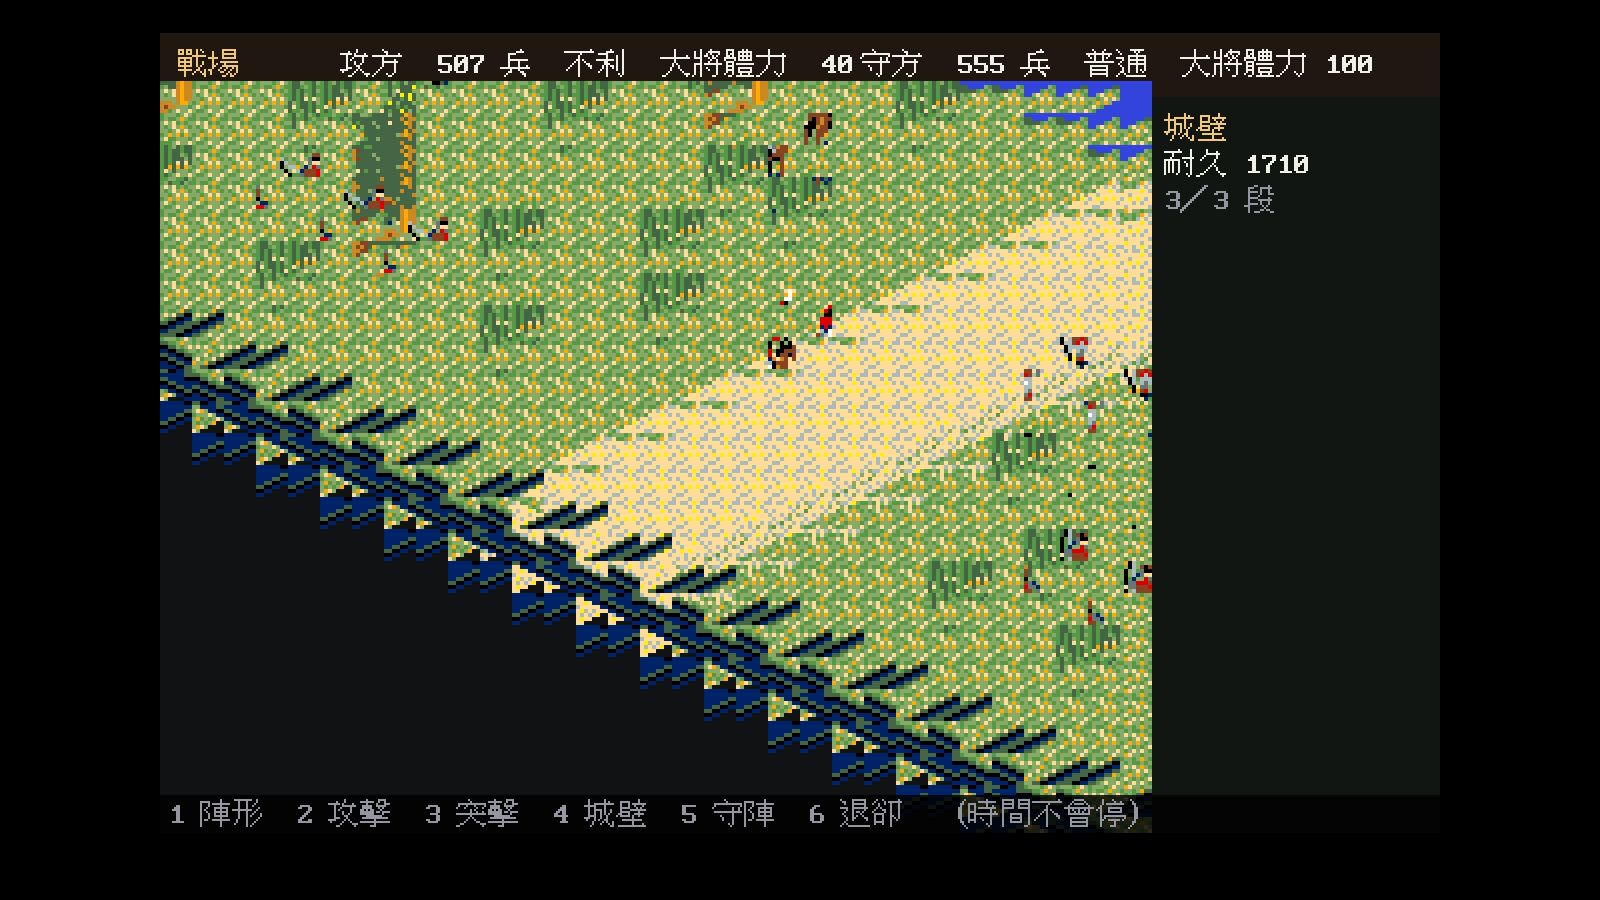
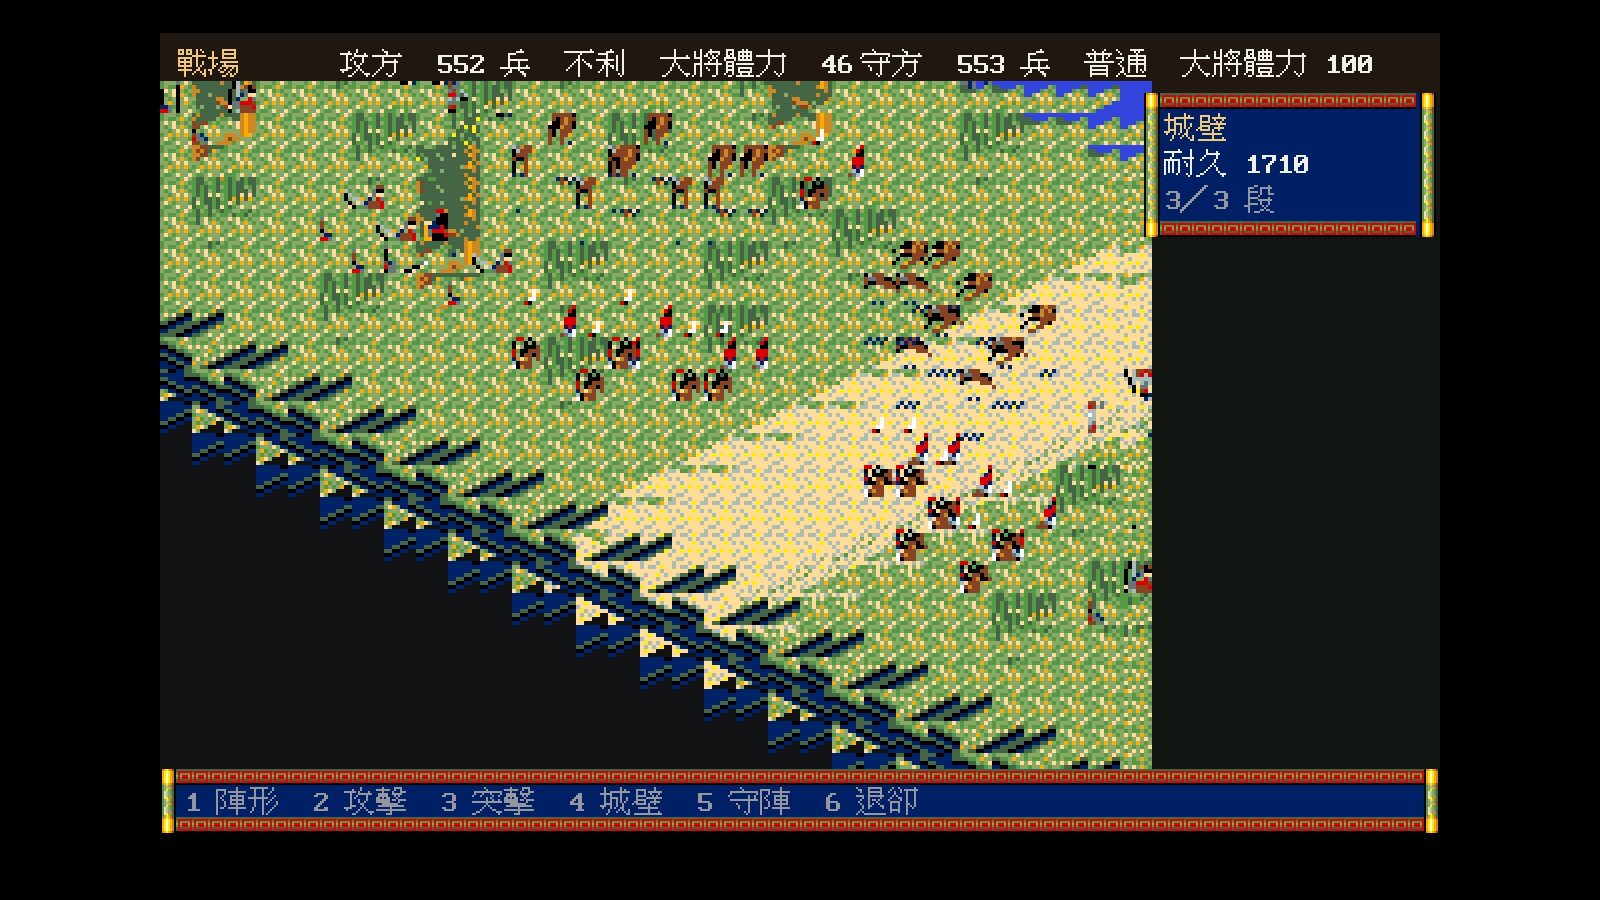
補完三項 UI 尾巴：命令視窗、戰鬥畫面外框、龍紋定案為負面結果
命令視窗改成原版的八組指令（進言／人事／財政／編成／軍團／據點／武將／勢力，
說明書 §3.2–3.3）。**沒實作的照樣列出來並標灰**——選單本身就是一份
「還缺什麼」的清單，把沒做的藏起來會讓缺口從畫面上消失。

戰鬥畫面的城壁欄與底部指令列換成原版外框，順手修掉 battle.go 開頭
那段過時註解（寫著「BATTLE.MDL 的像素格式還沒解出來」，那是上一輪解掉的）。

龍紋底圖：量完確定**不是可重複貼的圖塊**，這是負面結果不是待辦。
任何尺度都沒有週期（背景值 36.4%，水平 8/16/32/64 是 62/55/51/44%，
大位移 72–128 掉到 17–32%；真有週期該出現尖峰而不是單調下滑）。
內部 321 種相異的 8×8 圖樣裡只有 5 種在 ICONGRF 找得到，而那 5 種是外框自己。
所以它是每個視窗一張的裝飾底圖，要補得先反組譯視窗繪製常式，
不是再試一次拼貼尺寸。寫進 docs/formats/03 §5.5 與 chrome 套件的註解，
免得下一輪重試。

diff --git a/cmd/wlgame/battle.go b/cmd/wlgame/battle.go
@@ -2,10 +2,10 @@ package main
 
 // 戰場畫面。
 //
-// ⚠ **這裡畫的不是原版的美術。** `BATTLE.MDL` 的像素格式還沒解出來
-// （docs/re/11 §6），所以地形用堆疊高度上色、兵用色點。
-// **幾何是對的**（64 × 62 的格、立體的層、陣形位置、鎖敵），
-// 美術是暫代的——解出像素格式之後換掉這一層就好。
+// `BATTLE.MDL` 的子圖塊與 `BATTLE.SCH` 的人物圖形都已經解出來了
+// （docs/formats/07 §8–§10），等角繪圖走 battleview.go；
+// **沒有原版素材時退回高度圖 ＋ 色點**，幾何一樣是對的
+// （64 × 62 的格、立體的層、陣形位置、鎖敵）。
 
 import (
 	"fmt"
@@ -17,6 +17,7 @@ import (
 	"github.com/hajimehoshi/ebiten/v2/vector"
 
 	"github.com/wicanr2/wolong_cht/internal/assets/battle"
+	"github.com/wicanr2/wolong_cht/internal/ui/chrome"
 	"github.com/wicanr2/wolong_cht/internal/rules/army"
 	"github.com/wicanr2/wolong_cht/internal/rules/battlefield"
 	"github.com/wicanr2/wolong_cht/internal/rules/combat"
@@ -207,6 +208,8 @@ func (g *game) drawBattleBanner(screen *ebiten.Image, b *tactical.Battle, p *sta
 	if b.Field.IsSiege() && len(b.Structures) > 0 {
 		const px = isoNativeW*isoScale + 6
 		py := bannerH + 8
+		g.chrome.Window(screen, px-chrome.Tile-2, py-chrome.Tile-2,
+			screenW-(px-chrome.Tile-2)-2, 72, chrome.Menu)
 		g.td.Draw(screen, "城壁", px, py, amber)
 		min, intact := b.MinWallDurability()
 		txt := fmt.Sprintf("耐久 %d", min)
@@ -230,15 +233,16 @@ func (g *game) drawBattleBanner(screen *ebiten.Image, b *tactical.Battle, p *sta
 func (g *game) drawBattleKeys(screen *ebiten.Image, b *tactical.Battle) {
 	amber := color.RGBA{240, 200, 120, 255}
 	dim := color.RGBA{150, 150, 160, 255}
-	// 底部：指令列。
-	vector.DrawFilledRect(screen, 0, screenH-19, screenW, 19, color.RGBA{0, 0, 0, 210}, false)
+	// 底部：指令列。與戰略畫面一樣用原版外框，不要黑底長條。
+	const h = 32
+	g.chrome.Window(screen, 0, screenH-h, screenW, h, chrome.Menu)
 	if b.Done {
 		g.td.Draw(screen, fmt.Sprintf("%s勝　第 %d 幀　按 Enter 回戰略畫面",
-			sideLabel(b.Winner), b.Frame), 4, screenH-17, amber)
+			sideLabel(b.Winner), b.Frame), chrome.Tile+4, screenH-h+9, amber)
 	} else {
 		g.td.Draw(screen,
-			"1 陣形　2 攻擊　3 突擊　4 城壁　5 守陣　6 退卻　（時間不會停）",
-			4, screenH-17, dim)
+			"1 陣形　2 攻擊　3 突擊　4 城壁　5 守陣　6 退卻",
+			chrome.Tile+4, screenH-h+9, dim)
 	}
 }
 

diff --git a/cmd/wlgame/window.go b/cmd/wlgame/window.go
@@ -28,6 +28,23 @@ var windowRect = [numWindows]struct{ X, Y, W, H int }{
 	winSystem:  {archorRight(216), 216, 216, 152},
 }
 
+// commandMenu 是原版命令視窗的八組指令（說明書 §3.2、§3.3，
+// 整理在 docs/mechanics/10-strategy.md）。key 空字串 ＝ **還沒實作**。
+//
+// 保留未實作的項目是刻意的：選單本身就是一份「還缺什麼」的清單，
+// 把沒做的藏起來會讓缺口從畫面上消失。
+var commandMenu = []struct{ key, name string }{
+	{"P", "進　言"},
+	{"", "人　事"},
+	{"", "財　政"},
+	{"A", "編　成"},
+	{"M", "行　軍"},
+	{"C", "軍　團"},
+	{"", "據　點"},
+	{"G", "武　將"},
+	{"", "勢　力"},
+}
+
 // archorRight 讓視窗靠右邊，留 8 px 邊。
 func archorRight(w int) int { return screenW - w - 8 }
 
@@ -61,13 +78,18 @@ func (g *game) drawWindow(dst *ebiten.Image, k windowKind) {
 
 	switch k {
 	case winCommand:
+		// 原版的命令視窗是**八組**：進言 ＋ 說明書 §3 的其餘七個
+		// （docs/mechanics/10-strategy.md）。沒實作的照樣列出來並標灰，
+		// **不要因為還沒做就從選單上消失**——那會讓「還缺什麼」看不見。
 		w.line("命　令")
 		w.line("")
-		for _, s := range []string{
-			"P 進　言", "A 編　成", "M 行　軍",
-			"C 軍　團", "G 武　將",
-		} {
-			w.line(s)
+		for _, c := range commandMenu {
+			col := ink
+			key := c.key
+			if key == "" {
+				col, key = color.RGBA{150, 140, 120, 255}, "－"
+			}
+			w.lineC(fmt.Sprintf("%s %s", key, c.name), col)
 		}
 	case winFaction:
 		g.drawFactionWindow(dst, r.X, r.Y, r.W, w)

diff --git a/internal/ui/chrome/chrome.go b/internal/ui/chrome/chrome.go
@@ -5,7 +5,11 @@
 //
 //	上下邊　　紅框綠心的 motif，每 8 px 一個
 //	左右邊　　金色圓柱，最上面一塊是柱頭
-//	內部　　　深藍底（原版還有龍紋，那是跨多塊的大圖，還沒解）
+//	內部　　　深藍底
+//
+// ⚠ 原版的內部還有龍形花紋。**那不是可重複貼的圖塊**——
+// 量過任何尺度都沒有週期（`docs/formats/03` §5.5），是每個視窗一張的
+// 裝飾底圖。要補得先反組譯視窗繪製常式，不是再試一次拼貼尺寸。
 //
 // 沒有原版素材時退回純色框，**不會整個畫不出來**——
 // 素材是玩家自備的，缺了要能降級跑。

diff --git a/docs/formats/03-grf-images.md b/docs/formats/03-grf-images.md
@@ -150,6 +150,30 @@ plane 3  整張
 - **少於三色的塊要濾掉**。純色塊的簽章全 0，會跟畫面上任何一片純色相符，
   那種「相符」不算數。
 
+### 5.5 ⚠ 視窗內部的龍紋**不是圖塊拼的**（負面結果）
+
+深藍底上的龍形花紋看起來很像可重複的底紋，但量過之後不是：
+
+| 位移 | 一致率 |
+|---|---|
+| 背景值（非週期位移 37,23） | 36.4% |
+| 水平 8／16／32／64 | 62%／55%／51%／44% |
+| 垂直 8／16／32／64 | 62%／60%／63%／57% |
+| 水平 72–128 | 17–32% |
+| 垂直 72–128 | 44–54% |
+
+**任何尺度都沒有超過背景值多少。** 小位移（4、8）偏高只是相鄰像素相似，
+不是週期——真的有週期的話該尺度會出現尖峰，而這裡是單調下滑。
+
+同一區的 8×8 圖樣有 **321 種相異**，其中只有 5 種在 `ICONGRF` 各段找得到
+（而那 5 種是外框自己）。內部只有兩色（黑 ＋ `(0,32,101)`，深藍佔 11.5%）。
+
+**結論：它是每個視窗一張的裝飾底圖，不是可重複貼的圖塊。**
+要定位得反組譯視窗繪製常式（讀哪一段、怎麼縮放），不是繼續試拼貼尺寸。
+
+本專案目前把視窗內部畫成純深藍（`internal/ui/chrome` 的 `Menu`），
+**這是已知的差異，不是還沒發現的 bug**。
+
 ### 5.3 段 1 未解，段 3 只解出外框那幾塊
 
 段 1 的圖塊不是從段首開始密排——`sub_1CA3B` 用的 `si` 是 `3E00h`／`3E80h`／`3DC0h`
